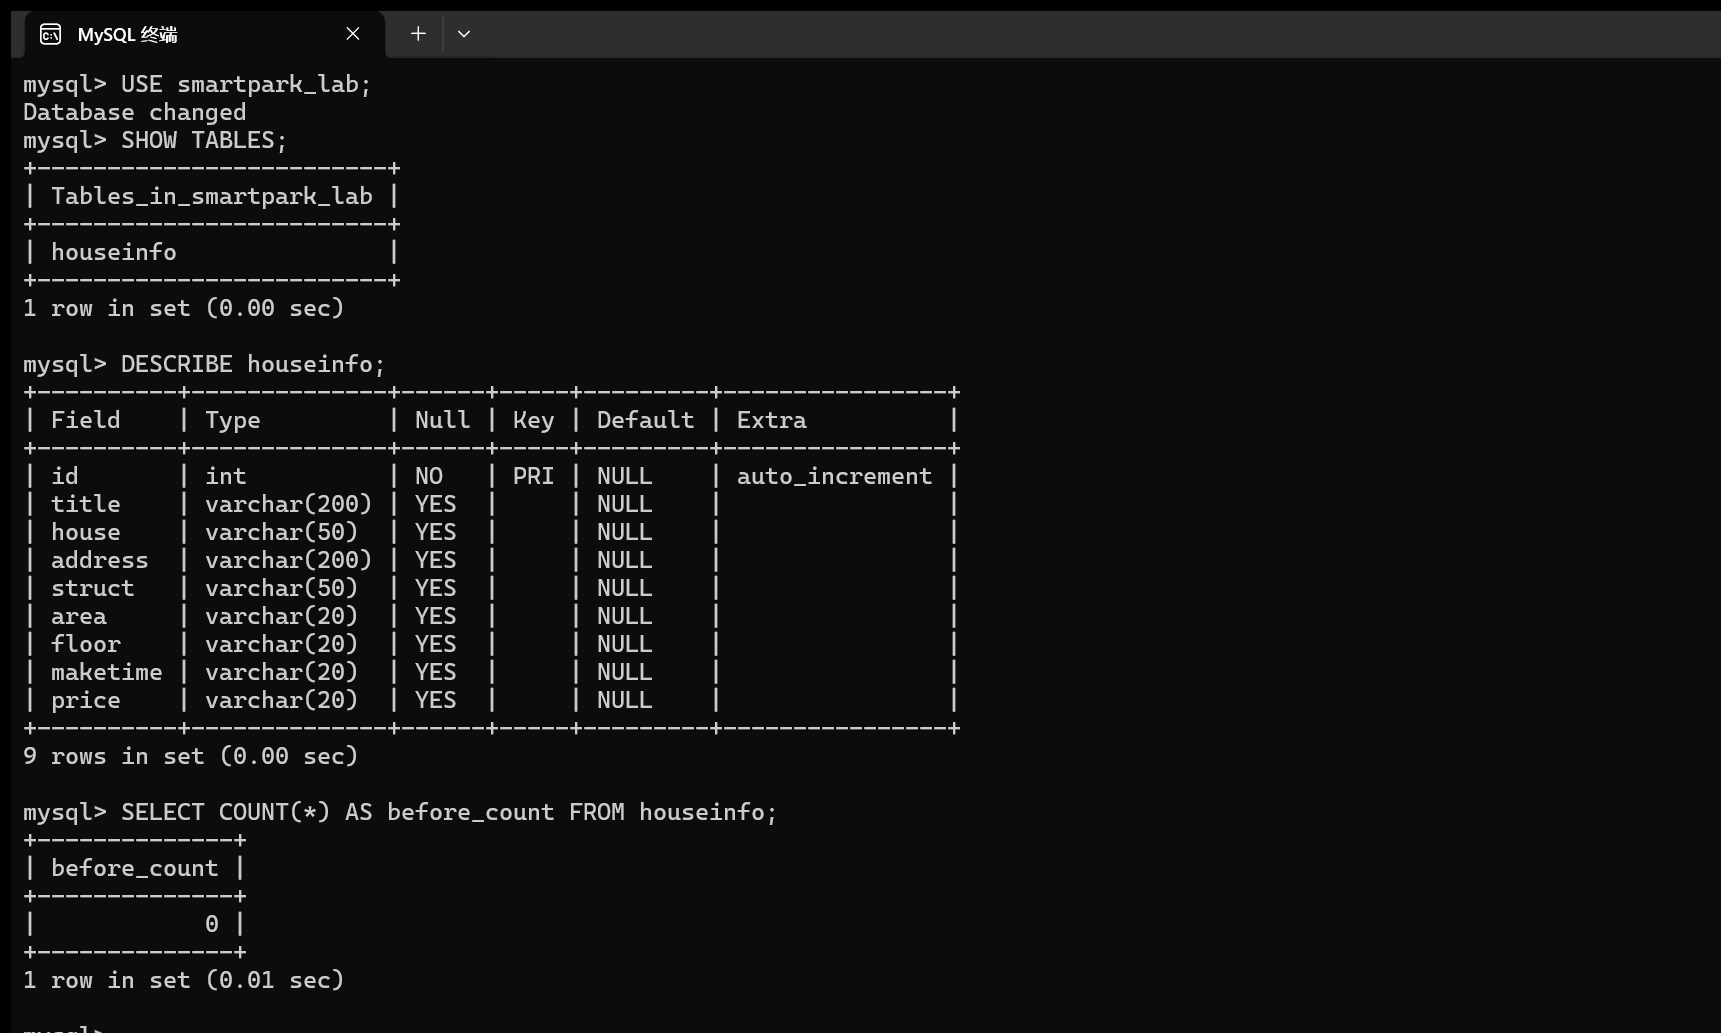
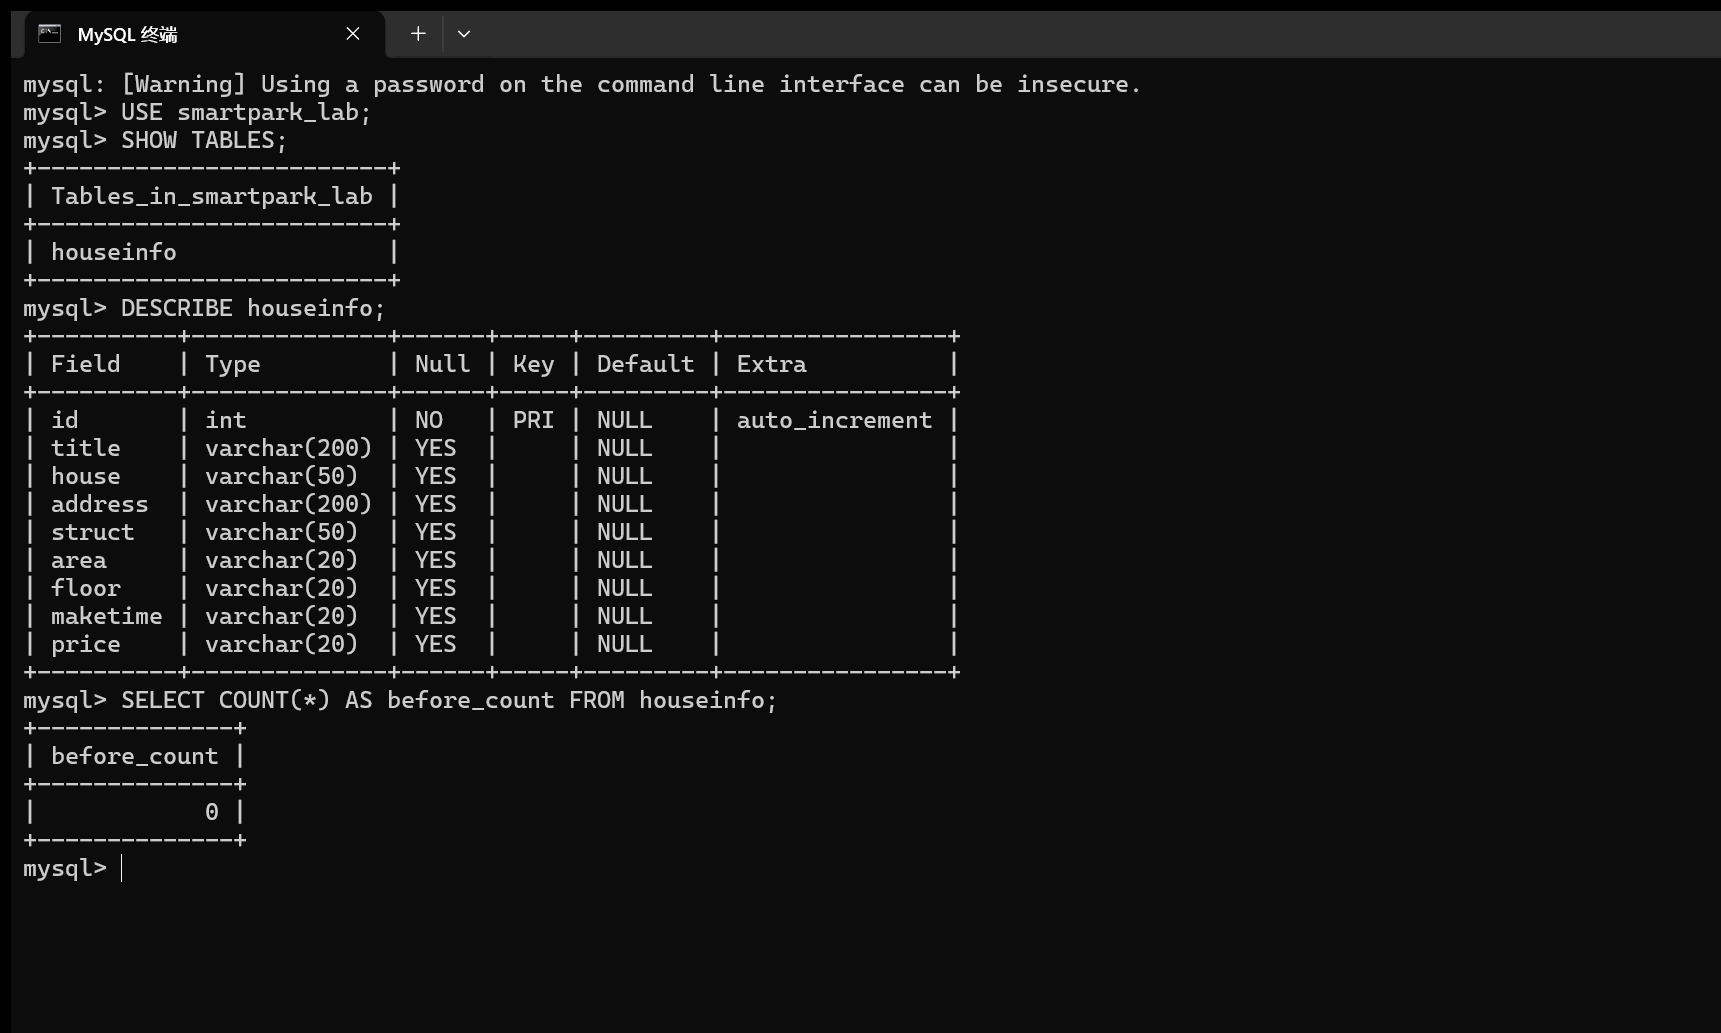
Apply L05 MySQL update and re-run lab 2 import

diff --git a/lab02/REPORT.md b/lab02/REPORT.md
@@ -6,7 +6,7 @@
 - 实验日期：2026-10-27
 - GitHub 仓库链接：https://github.com/lirui-qwe/bigdata-collection-labs-112404260119
 - 源码文件名：`lab02/anjuke.ipynb`
-- 数据库与表：`smartpark_lab.houseinfo`
+- 数据库与表：`smartpark_lab.houseinfo`（L05 教学卷 `smartpark-student_l05-mysql-data`）
 - 数据来源：在线教学站 http://www.bspider.top/anjuke/
 - 访问时间及结果：2026-10-27 16:44 左右在线访问。用完整 Chrome 请求头请求首页返回 **HTTP 200**，页面标题“重庆二手房房产网，重庆二手房出售，重庆买房购房交易信息 - 58安居客”，首页解析出 **60** 条 `div.property`；若只把 UA 写成 `Mozilla/5.0`，同样返回 HTTP 200，但标题变成“访问验证-安居客”、房源节点为 0（见“问题与解决”）。
 - 快照文件来源与文件名（在线实验可写“不适用”）：不适用（本次在线采集成功，未使用网页快照）
@@ -15,16 +15,20 @@
 
 ## 第一阶段：MySQL Docker 更新与启动
 
-- 本次是否需要更新：**未使用 L05 增量更新包**。课程环境文件夹中只有 `start-course.bat`，没有 `start-mysql.bat`、`mysql-console.bat`、`l05-mysql.ps1` 等 L05 脚本；但 `docker-compose.yml` 中已配置 MySQL 服务（镜像 `mysql:8.4.11`，独立教学数据卷 `smartpark-student_student-mysql-data`），因此直接启动该服务并复用已有数据卷，未删卷、未重装。
+- 本次是否需要更新：**已按教师提供的 `L05_MySQL_学生环境增量更新包` 完成更新**。步骤：① 核对包内 `SHA256SUMS.txt`，5 个配套文件和 254 MB 离线镜像包校验全部通过；② 把 `l05-mysql-fresh-volume.yaml`、`start-mysql.bat`、`stop-mysql.bat`、`mysql-console.bat`、`l05-mysql.ps1` 复制到原课程目录（未覆盖 `docker-compose.yml`、`.env`、`workspace`）；③ 停止旧卷 MySQL（未删除旧卷 `smartpark-student_student-mysql-data`）；④ 用 `docker load` 导入包内 `mysql:8.4.11` 离线镜像，`docker image inspect` 的 ID 为 `sha256:85b9bf2e…`，与包内说明一致；⑤ 双击 `start-mysql.bat`，输出 `[PASS] L05 MySQL healthy，账号连接检查通过`。
+- L05 环境使用独立教学卷 `smartpark-student_l05-mysql-data`，不再向宿主机映射 3306，JupyterLab 仍通过 `mysql:3306` 连接；旧卷保留未动。
 - 更新或启动遇到的问题：
-  1. 环境缺少 L05 的 `start-mysql.bat` / `mysql-console.bat`。处理：在环境文件夹执行 `docker compose --profile mysql up -d mysql` 启动 MySQL，容器状态为 `Up (healthy)`，端口映射 `127.0.0.1:3306`。
-  2. 没有 `mysql-console.bat` 时用 Windows 终端执行 `docker exec -it smartpark-student-mysql-1 mysql -ustudent -p*** smartpark_lab --default-character-set=utf8mb4` 进入 `mysql>` 提示符，作用与课程 MySQL 终端一致；加 `--default-character-set=utf8mb4` 避免中文显示成 `?`。
+  1. **镜像 ID 不一致**：更新前本机 `mysql:8.4.11` 的 ID 是 `sha256:0f51e63e…`（此前从镜像源拉取），与包内说明要求的 `sha256:85b9bf2e…` 不同。按包内 README 先停旧容器、确认离线包 SHA256 后再 `docker load`，导入后 ID 与要求一致，才运行 `start-mysql.bat`。
+  2. **旧卷 MySQL 必须先停**：`l05-mysql.ps1` 检测到旧卷 MySQL 正在运行会拒绝启动（保护数据）。先 `docker compose --profile mysql stop mysql`，旧卷数据完整保留。
+  3. 进入命令行用包内 `mysql-console.bat`（自动使用 L05 账号和库），输入密码 `123456` 后出现 `mysql>`；终端另加 `--default-character-set=utf8mb4` 避免中文乱码。
 
 ### 启动环境与建表
 
-课程 JupyterLab（`http://127.0.0.1:8888`）与 MySQL 容器均在运行。在 MySQL 终端中执行 `USE smartpark_lab;`、`SHOW TABLES;`、`DESCRIBE houseinfo;`、`SELECT COUNT(*) AS before_count FROM houseinfo;`，结果如下图。
+课程 JupyterLab（`http://127.0.0.1:8888`）与 L05 MySQL 容器均在运行。`start-mysql.bat` 已完成建卷、启动和健康检查。在 MySQL 终端中执行 `USE smartpark_lab;`、`SHOW TABLES;`、`DESCRIBE houseinfo;`、`SELECT COUNT(*) AS before_count FROM houseinfo;`，结果如下图。L05 新卷是空库，建表后 `before_count` 为 0。
 
 **截图：** MySQL 启动成功提示，以及终端中 `USE smartpark_lab`、`SHOW TABLES`、`DESCRIBE houseinfo` 的执行结果。可分图。
+
+![start-mysql.bat 启动成功](images/00_mysql_start.png)
 
 ![MySQL 建表与入库前条数](images/01_mysql_table.png)
 
@@ -136,7 +140,9 @@
 
 ![入库后 MySQL 条数](images/12_mysql_count.png)
 
-![MySQL 中前 5 条样本（纵向显示）](images/13_mysql_sample.png)
+![MySQL 中前 3 条样本（纵向显示）](images/13_mysql_sample_1.png)
+
+![MySQL 中第 4—5 条样本（纵向显示）](images/13_mysql_sample_2.png)
 
 ![两次入库输出对比](images/11_db_import_output.png)
 
@@ -153,7 +159,7 @@
 
 说明：首次入库后的条数应等于去重后的CSV数据行数，8个字段的内容也应一致。若不一致，说明原因。总条数以实际结果为准。
 
-答：一致。首次入库后 `SELECT COUNT(*) AS after_count` 为 **498**，等于去重后 CSV 的数据行数 498，`executemany()` 受影响 498 行。第二次运行入库函数时“入库前条数 498、本次待新增 0 条”，跳过写入，总条数仍为 498，未重复增加。由于 `LIMIT 5` 的横向表格比终端宽，终端里改用 `\G` 纵向显示前 5 条，8 个字段都能完整看到。
+答：一致。首次入库后 `SELECT COUNT(*) AS after_count` 为 **498**，等于去重后 CSV 的数据行数 498，`executemany()` 受影响 498 行。第二次运行入库函数时“入库前条数 498、本次待新增 0 条”，跳过写入，总条数仍为 498，未重复增加。由于 `LIMIT 5` 横向表格比终端宽、纵向又超过一屏，样本分两张截图（第 1—3 条、第 4—5 条），均用 `\G` 完整显示 8 个字段。
 
 #### 逐条核对
 
@@ -173,8 +179,8 @@
 
 - 遇到的问题、处理方法及结果：
   1. **简短 UA 触发访问验证页**：按手册示例只用 `Mozilla/5.0` 作 UA 请求，返回 HTTP 200 但页面标题是“访问验证-安居客”、`div.property` 为 0；用 `curl/8.0` 也一样。处理：改用完整 Chrome 请求头（UA + Accept + Accept-Language + Referer），并在 `fetch_page()` 中检查页面标题，命中“访问验证”就抛异常停止采集，避免把验证页当房源页继续解析。结果：10 页全部正常返回。
-  2. **缺少 L05 启动脚本**：环境文件夹没有 `start-mysql.bat`、`mysql-console.bat`。处理：用 `docker compose --profile mysql up -d mysql` 启动已配置的 MySQL 服务，用 Windows 终端执行 `docker exec -it ... mysql ...` 进入客户端（未删卷、未重装）。结果：容器 healthy，`smartpark_lab.houseinfo` 正常建表和查询。
-  3. **终端表格过宽**：`SELECT ... LIMIT 5` 的横向结果比终端宽，中文行被折行、看不全。处理：查询末尾改用 `\G` 纵向显示，并另外截一张 `COUNT(*)` 的图；报告里的面积、单价、年代逐条核对用 Notebook 输出与 MySQL 终端两张证据互相印证。
+  2. **L05 增量包与镜像 ID**：增量包最初只在下载目录，课程目录没有 5 个脚本；本机 `mysql:8.4.11` 的 ID（`0f51e63e…`）也与包内要求的 `85b9bf2e…` 不一致。处理：按包内 README 校验 SHA256、复制 5 个文件、停旧卷 MySQL、导入离线镜像后再运行 `start-mysql.bat`（旧卷未删）。结果：`[PASS] L05 MySQL healthy`，新卷 `l05-mysql-data` 建表和查询正常。
+  3. **终端一屏放不下 5 条样本**：`SELECT ... LIMIT 5` 横向表格比终端宽，纵向 `\G` 又超过一屏。处理：样本分两张截图（第 1—3 条、第 4—5 条），均用 `\G` 完整显示 8 个字段；面积、单价、年代再用 Notebook 的逐条核对输出互相印证。
   4. **入库去重**：第一次入库写入 498 条；重跑时如果直接再 `executemany()` 会变成 996 条。处理：入库前先查库内已有的 8 字段集合，只插入不存在的记录；重跑输出“本次待新增 0 条”，总数保持 498。
 - 尚未解决的问题、未完成的步骤（没有可写“无”）：无。在线采集、CSV、入库和核对全部完成；未使用网页快照。
 

diff --git a/README.md b/README.md
@@ -26,6 +26,7 @@ bigdata-collection-labs-112404260119/
     ├── data/
     │   └── houseinfo.csv
     └── images/
+        ├── 00_mysql_start.png
         ├── 01_mysql_table.png
         ├── 02_selector_html.png
         ├── 03_parse_first.png
@@ -38,7 +39,8 @@ bigdata-collection-labs-112404260119/
         ├── 10_db_read_output.png
         ├── 11_db_import_output.png
         ├── 12_mysql_count.png
-        ├── 13_mysql_sample.png
+        ├── 13_mysql_sample_1.png
+        ├── 13_mysql_sample_2.png
         └── 14_db_check_output.png
 ```
 
